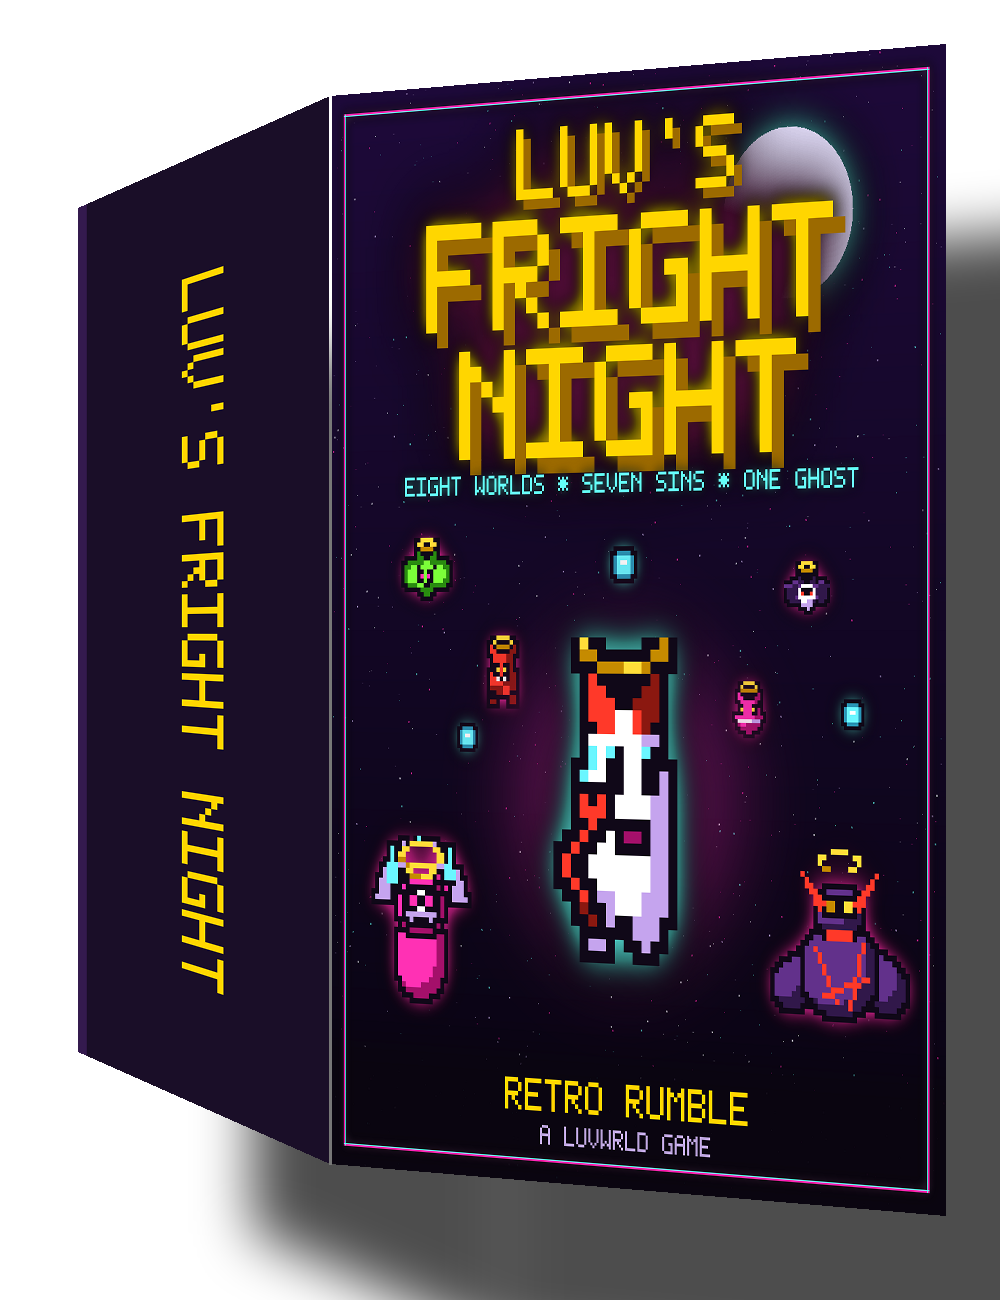
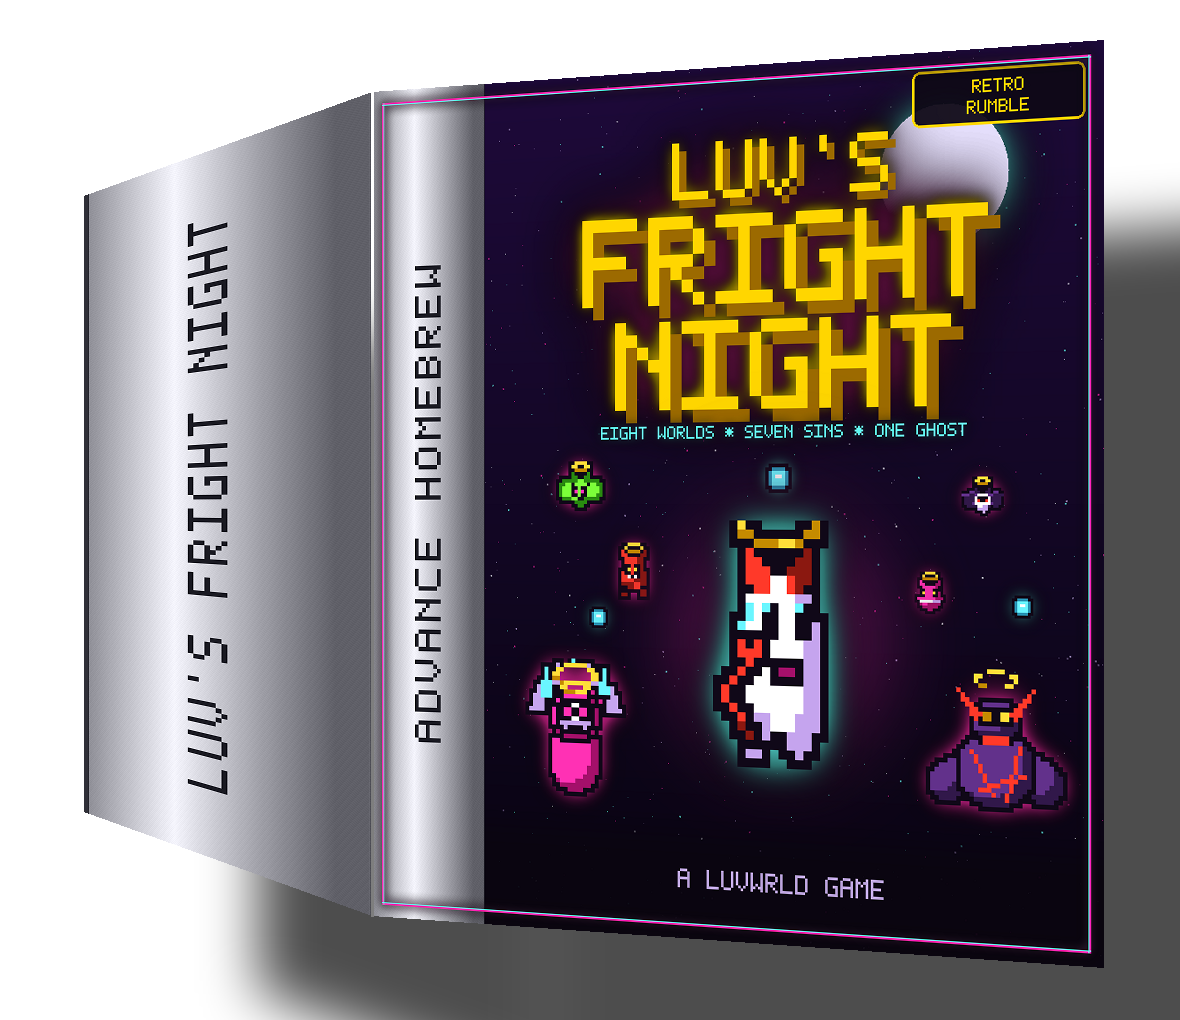
The box was the wrong shape too, and had no platform strip
A Game Boy Advance box is nearly square - 900 by 960 here - not the poster
shape mine was, and it wears a brushed silver strip down the left edge of
the face and again on the spine. That strip is most of what makes a shelf
photograph read as a GBA game, and mine had neither.

Rebuilt against a blank retail box: the strip, the publisher's mark in the
top corner, and the credit along the foot. The 3D render shows the strip
twice, on the face and on the spine, the way a real one does.

Every size in the artwork had been tuned against a 1200-tall poster, so
squaring the canvas put the title on top of the ghost. They scale off the
height they are actually given now.

Two things the strip does not carry. On a real box it reads GAME BOY
ADVANCE, which is Nintendo's, so it says what the thing is instead - and
there is no Official Seal, which is theirs to grant and nobody has granted
it.

The band picked its type size off its own width, which clipped the longer
spine line to a fragment. It measures the text now.

diff --git a/tools/gen_scrape.py b/tools/gen_scrape.py
@@ -11,7 +11,7 @@ import random
 import shutil
 import sys
 
-from PIL import Image, ImageFilter
+from PIL import Image, ImageDraw, ImageFilter
 
 sys.path.insert(0, os.path.dirname(os.path.abspath(__file__)))
 
@@ -165,7 +165,19 @@ def neon_frame(img, inset, thickness=3):
     img.alpha_composite(line)
 
 
-def box_front(path, w=900, h=1200):
+def _box_art(w, h):
+    """
+    The printed artwork, without the platform furniture around it.
+
+    Every size below was tuned against a 1200-tall poster shape. A real Game
+    Boy Advance box is nearly square, so they scale off the height they are
+    actually given - otherwise the title lands on top of the ghost.
+    """
+    k = h / 1200.0
+
+    def px(n):
+        return max(1, int(round(n * k)))
+
     img = backdrop(w, h)
 
     # The moon Luv is haunting, behind the lockup.
@@ -183,29 +195,31 @@ def box_front(path, w=900, h=1200):
     img.alpha_composite(moon)
 
     # Title first, because everything below is placed off its real height.
-    title, pad = title_block(scale_big=17, scale_small=11)
-    title_y = int(h * 0.045) - pad
+    title, pad = title_block(scale_big=px(17), scale_small=px(11))
+    # Low enough to clear the publisher's mark in the top corner.
+    title_y = int(h * 0.085) - pad
     img.alpha_composite(title, ((w - title.size[0]) // 2, title_y))
 
     tag_y = title_y + title.size[1] - pad + 14
     tag = Image.new('RGBA', (w, 60), (0, 0, 0, 0))
-    boxfont.centered(tag, 'EIGHT WORLDS * SEVEN SINS * ONE GHOST', 4, CYAN, 3)
+    boxfont.centered(tag, 'EIGHT WORLDS * SEVEN SINS * ONE GHOST', 4, CYAN,
+                     px(3))
     bloom, off = glow(tag, 7, 2.2)
     img.alpha_composite(bloom, (off, tag_y + off))
     img.alpha_composite(tag, (0, tag_y))
 
     # The floor line the cast stands on -- everything below is the credit band.
-    band_top = h - 170
+    band_top = h - px(170)
 
     # Small fry drifting through the empty middle band.
     for name, height, scale, fx, fy in (
-            ('cherub_fiend', 16, 5, 0.17, 0.415),
-            ('bone_bat', 16, 4, 0.79, 0.44),
-            ('halo_imp', 16, 5, 0.30, 0.505),
-            ('gnasher', 16, 4, 0.70, 0.545),
-            ('soul_orb', 8, 5, 0.50, 0.425),
-            ('soul_orb', 8, 4, 0.24, 0.585),
-            ('soul_orb', 8, 4, 0.86, 0.56)):
+            ('cherub_fiend', 16, px(5), 0.17, 0.45),
+            ('bone_bat', 16, px(4), 0.82, 0.47),
+            ('halo_imp', 16, px(5), 0.26, 0.545),
+            ('gnasher', 16, px(4), 0.74, 0.575),
+            ('soul_orb', 8, px(5), 0.50, 0.455),
+            ('soul_orb', 8, px(4), 0.20, 0.62),
+            ('soul_orb', 8, px(4), 0.88, 0.60)):
         try:
             fry = sprite(name, 0, height, scale)
         except FileNotFoundError:
@@ -220,7 +234,7 @@ def box_front(path, w=900, h=1200):
     # A soft halo behind Luv so the white sprite separates from the night.
     disc = Image.new('RGBA', (w, h), (0, 0, 0, 0))
     dp = disc.load()
-    dcx, dcy, dr = w // 2, band_top - 250, 210
+    dcx, dcy, dr = w // 2, band_top - px(250), px(210)
 
     for y in range(dcy - dr, dcy + dr + 1):
         for x in range(dcx - dr, dcx + dr + 1):
@@ -232,7 +246,7 @@ def box_front(path, w=900, h=1200):
 
     # Two sins flanking, standing on the same floor.
     for name, side in (('boss_superbia', -1), ('boss_ira', 1)):
-        sin = sprite(name, 0, 32, 6)
+        sin = sprite(name, 0, 32, px(6))
         x = int(w * 0.5 + side * w * 0.34) - sin.size[0] // 2
         y = band_top - sin.size[1] - 10
         bloom, off = glow(sin, 14, 1.8, MAG)
@@ -240,27 +254,100 @@ def box_front(path, w=900, h=1200):
         img.alpha_composite(sin, (x, y))
 
     # Luv, front and centre.
-    luv = sprite('luv', 6, 32, 13)
+    luv = sprite('luv', 6, 32, px(13))
     lx, ly = (w - luv.size[0]) // 2, band_top - luv.size[1] - 6
     bloom, off = glow(luv, 26, 2.2, CYAN)
     img.alpha_composite(bloom, (lx + off, ly + off))
     img.alpha_composite(luv, (lx, ly))
 
     # Bottom band: who made it.
-    band = Image.new('RGBA', (w, 170), (0, 0, 0, 0))
+    bh = px(170)
+    band = Image.new('RGBA', (w, bh), (0, 0, 0, 0))
     bp = band.load()
 
-    for y in range(170):
-        a = int(240 * min(1.0, y / 55.0))
+    for y in range(bh):
+        a = int(240 * min(1.0, y / (bh * 0.32)))
 
         for x in range(w):
             bp[x, y] = (10, 5, 16, a)
 
-    boxfont.centered(band, 'RETRO RUMBLE', 58, GOLD, 5)
-    boxfont.centered(band, 'A LUVWRLD GAME', 108, LILAC, 3)
-    img.alpha_composite(band, (0, h - 170))
+    # The publisher is on the spine strip and in the corner mark already; down
+    # here it only needs to say whose game it is.
+    boxfont.centered(band, 'A LUVWRLD GAME', int(bh * 0.44), LILAC, px(4))
+    img.alpha_composite(band, (0, h - bh))
 
-    neon_frame(img, 22)
+    return img
+
+
+def _platform_band(w, h, words='ADVANCE HOMEBREW'):
+    """
+    The silver strip down the left edge of a Game Boy Advance box.
+
+    On a real box this carries the platform's own name in this exact place.
+    That wordmark is Nintendo's, so the strip says what the thing is instead
+    of whose it is.
+    """
+    band = Image.new('RGBA', (w, h), (0, 0, 0, 0))
+    px = band.load()
+
+    for x in range(w):
+        t = x / float(w - 1)
+        # Brushed metal: a bright line off-centre, falling away to both edges.
+        v = max(0.0, 1.0 - abs(t - 0.38) * 1.9)
+        c = int(96 + 150 * v)
+
+        for y in range(h):
+            # A little vertical grain, so it reads as metal rather than a
+            # flat grey rectangle.
+            g = ((y * 7 + x * 3) % 11) - 5
+            px[x, y] = (max(0, min(255, c + g)), max(0, min(255, c + g)),
+                        max(0, min(255, c + g + 8)), 255)
+
+    strip = Image.new('RGBA', (h, w), (0, 0, 0, 0))
+
+    # Size to whichever runs out first, the strip's width or its length. The
+    # spine carries a longer line than the face does, and picking the size off
+    # the width alone clipped it to "'S FRIGHT NI".
+    scale = max(2, w // 26)
+
+    while scale > 2 and boxfont.measure(words, scale, 2) > h - int(w * 0.5):
+        scale -= 1
+
+    boxfont.centered(strip, words, (w - boxfont.HEIGHT * scale) // 2,
+                     (26, 26, 34, 255), scale, tracking=2)
+    band.alpha_composite(strip.rotate(90, expand=True))
+
+    d = ImageDraw.Draw(band)
+    d.line([(w - 1, 0), (w - 1, h)], fill=(40, 40, 48, 255), width=2)
+    return band
+
+
+def box_front(path, w=900, h=960):
+    """
+    The cover, in the shape a Game Boy Advance box actually is.
+
+    Nearly square rather than poster-shaped, with the silver platform strip
+    down the left edge and the publisher's mark in the top corner. The
+    proportions and the furniture are taken off a blank retail box.
+    """
+    img = Image.new('RGBA', (w, h), INK)
+
+    band_w = int(w * 0.17)
+    art = _box_art(w - band_w, h)
+    img.alpha_composite(art, (band_w, 0))
+    img.alpha_composite(_platform_band(band_w, h, 'ADVANCE HOMEBREW'),
+                        (0, 0))
+
+    # Publisher's mark, top right, where a label would sit.
+    mark = Image.new('RGBA', (196, 60), (0, 0, 0, 0))
+    md = ImageDraw.Draw(mark)
+    md.rounded_rectangle([0, 0, 195, 59], radius=9, fill=(14, 8, 22, 240),
+                         outline=GOLD, width=3)
+    boxfont.centered(mark, 'RETRO', 12, GOLD, 2)
+    boxfont.centered(mark, 'RUMBLE', 34, GOLD, 2)
+    img.alpha_composite(mark, (w - 196 - 20, 20))
+
+    neon_frame(img, 14)
     img.convert('RGB').save(path)
     return path
 

diff --git a/tools/gen_print.py b/tools/gen_print.py
@@ -202,32 +202,34 @@ def cartridge(path, w=940, h=600):
 
 # ------------------------------------------------------------------ 3D box
 
-def box_3d(path, w=1000, h=1300):
-    """The front turned a few degrees, with its spine showing."""
+def box_3d(path, w=1180, h=1020):
+    """
+    The box turned a few degrees, with its spine showing.
+
+    A retail box wears the silver platform strip twice - down the left edge of
+    the face, and again on the spine, which is what you actually see on a
+    shelf. The face carries its own already, so this builds the spine to
+    match it rather than inventing a different one.
+    """
     img = Image.new('RGBA', (w, h), (0, 0, 0, 0))
     front_src = Image.open(
                 os.path.join(MEDIA, 'box', 'box-front.png')).convert('RGBA')
 
-    # Front face: right edge nearer, so taller. Spine falls away to the left.
-    front_q = [(330, 96), (946, 44), (946, 1216), (330, 1164)]
-    spine_q = [(78, 208), (330, 96), (330, 1164), (78, 1052)]
+    # Right edge nearer, so taller; the spine falls away to the left.
+    front_q = [(372, 92), (1104, 40), (1104, 968), (372, 916)]
+    spine_q = [(84, 196), (372, 92), (372, 916), (84, 812)]
 
-    spine = Image.new('RGBA', (300, 1000), (26, 14, 40, 255))
+    spine = gs._platform_band(300, 920, 'LUV\'S FRIGHT NIGHT')
     sd = ImageDraw.Draw(spine)
-    sd.rectangle([0, 0, 12, spine.height], fill=(52, 26, 78, 255))
-    strip = Image.new('RGBA', (1000, 300), (0, 0, 0, 0))
-    boxfont.centered(strip, "LUV'S FRIGHT NIGHT", 110, gs.GOLD, 7)
-    # Clockwise, so the spine reads top to bottom on a shelf.
-    spine.alpha_composite(strip.rotate(-90, expand=True).resize(
-                (300, 1000), Image.LANCZOS), (0, 0))
+    sd.rectangle([0, 0, 6, spine.height], fill=(48, 48, 56, 255))
 
     panel = Image.new('RGBA', (w, h), (0, 0, 0, 0))
     panel.alpha_composite(warp(spine, spine_q, (w, h)))
     panel.alpha_composite(warp(front_src, front_q, (w, h)))
 
-    # The edge where the two faces meet, so the fold reads.
+    # The fold where the two faces meet.
     ed = ImageDraw.Draw(panel)
-    ed.line([front_q[0], front_q[3]], fill=(255, 255, 255, 60), width=3)
+    ed.line([front_q[0], front_q[3]], fill=(255, 255, 255, 70), width=3)
 
     blur, at = shadow(panel, 26, 0.7, (18, 24))
     img.alpha_composite(blur, at)
